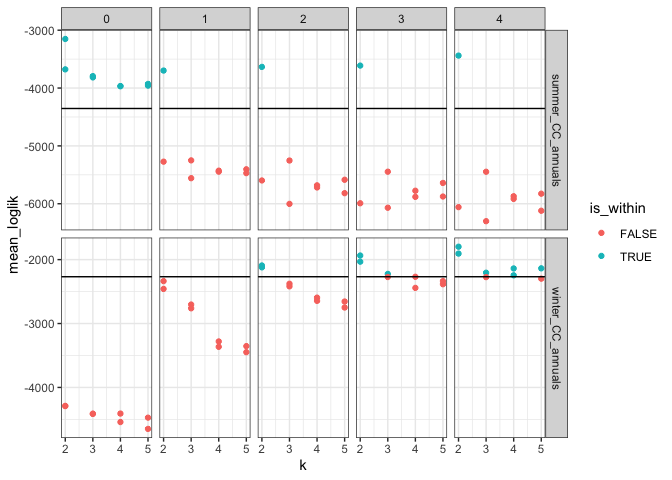
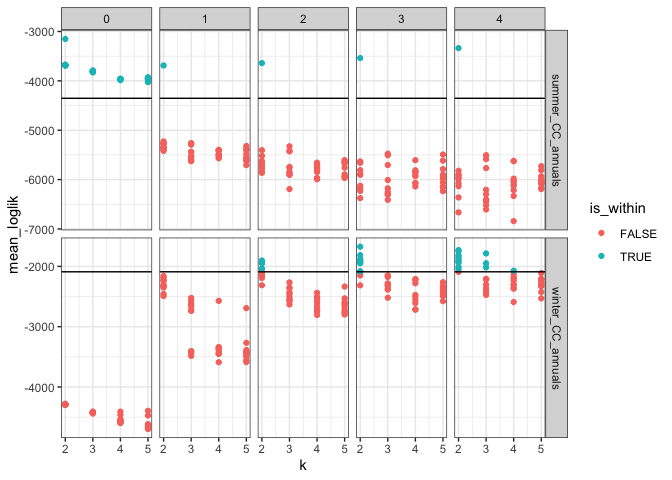
increase seeds

diff --git a/analysis/dev/plants_explore.md b/analysis/dev/plants_explore.md
@@ -1,7 +1,7 @@
 Portal annuals
 ================
 Renata Diaz
-2021-05-24
+2021-05-25
 
   - [Specs](#specs)
   - [winter](#winter)
@@ -11,11 +11,11 @@ Renata Diaz
 
 ``` r
 methods <- drake::drake_plan(
-  ldats_fit = target(fit_ldats_crossval(dataset, buffer = 2, k = ks, lda_seed = seeds, cpts = cpts, nit = 500),
+  ldats_fit = target(fit_ldats_crossval(dataset, buffer = 2, k = ks, lda_seed = seeds, cpts = cpts, nit = 100),
                      transform = cross(
                        dataset = !!rlang::syms(datasets$target),
                        ks = !!c(2:5),
-                       seeds = !!seq(2, 4, by = 2),
+                       seeds = !!seq(2, 20, by = 2),
                        cpts = !!c(0:4),
                        return_full = F,
                        return_fits = F,
@@ -41,8 +41,8 @@ methods <- drake::drake_plan(
 
 | k | lda\_seed | cpts | nit | mean\_loglik | se\_loglik | dat\_name           |    Mean | Median | Mode | Lower\_95% | Upper\_95% |   SD | MCMCerr |   AC10 |      ESS | cpt | nyears | width | width\_ratio | modal\_estimate | seg\_before | seg\_after | dissimilarity | overall\_r2 | species\_mean\_r2 |
 | -: | --------: | ---: | --: | -----------: | ---------: | :------------------ | ------: | -----: | ---: | ---------: | ---------: | ---: | ------: | -----: | -------: | :-- | -----: | ----: | -----------: | --------------: | ----------: | ---------: | ------------: | ----------: | ----------------: |
-| 2 |         4 |    2 | 500 |   \-2091.411 |   647.0686 | winter\_CC\_annuals | 1994.87 |   1995 | 1994 |       1990 |       1999 | 2.43 |  0.0768 | 0.0361 | 213.8638 | 1   |     26 |     9 |    0.3461538 |            1994 |           1 |          2 |     0.4120024 |     0.35676 |         0.2422645 |
-| 2 |         4 |    2 | 500 |   \-2091.411 |   647.0686 | winter\_CC\_annuals | 2004.73 |   2004 | 1997 |       1995 |       2017 | 7.21 |  0.2280 | 0.0572 | 287.9303 | 2   |     26 |    22 |    0.8461538 |            1997 |           2 |          3 |     0.2932767 |     0.35676 |         0.2422645 |
+| 2 |        10 |    2 | 100 |    \-1902.45 |   524.4792 | winter\_CC\_annuals | 1994.94 |   1995 | 1993 |       1990 |       1999 | 2.44 |  0.0772 | 0.0582 | 269.0895 | 1   |     26 |     9 |    0.3461538 |            1993 |           1 |          2 |     0.3554668 |   0.3635679 |         0.2422645 |
+| 2 |        10 |    2 | 100 |    \-1902.45 |   524.4792 | winter\_CC\_annuals | 2004.98 |   2003 | 1997 |       1994 |       2017 | 7.29 |  0.2305 | 0.0188 | 278.4256 | 2   |     26 |    23 |    0.8846154 |            1996 |           2 |          3 |     0.3950211 |   0.3635679 |         0.2422645 |
 
 </div>
 
@@ -62,7 +62,7 @@ methods <- drake::drake_plan(
 
 | k | lda\_seed | cpts | nit | mean\_loglik | se\_loglik | dat\_name           | Mean | Median | Mode | Lower\_95. | Upper\_95. | SD | MCMCerr | AC10 | ESS | cpt | nyears | width | width\_ratio | modal\_estimate | seg\_before | seg\_after | dissimilarity | overall\_r2 | species\_mean\_r2 |
 | -: | --------: | ---: | --: | -----------: | ---------: | :------------------ | :--- | :----- | :--- | :--------- | :--------- | :- | :------ | :--- | --: | :-- | -----: | :---- | :----------- | :-------------- | :---------- | :--------- | :------------ | ----------: | ----------------: |
-| 2 |         2 |    0 | 500 |   \-3151.713 |   1201.655 | summer\_CC\_annuals | NA   | NA     | NA   | NA         | NA         | NA | NA      | NA   |   0 | NA  |     25 | NA    | NA           | NA              | NA          | NA         | NA            |   0.2460731 |         0.3089993 |
+| 2 |         2 |    0 | 100 |   \-3151.713 |   1201.655 | summer\_CC\_annuals | NA   | NA     | NA   | NA         | NA         | NA | NA      | NA   |   0 | NA  |     25 | NA    | NA           | NA              | NA          | NA         | NA            |   0.2460731 |         0.3089993 |
 
 </div>
 
